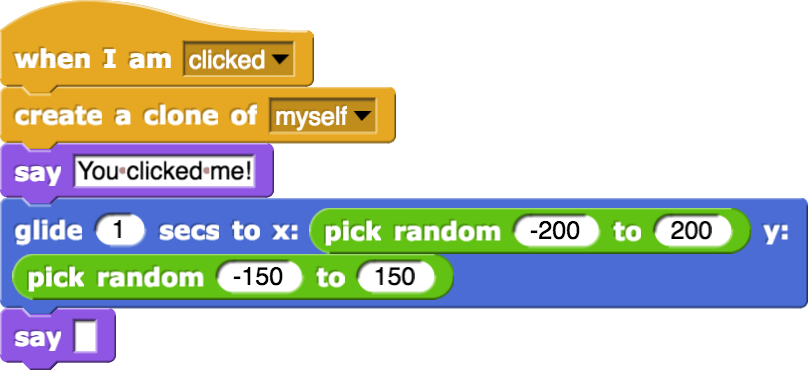
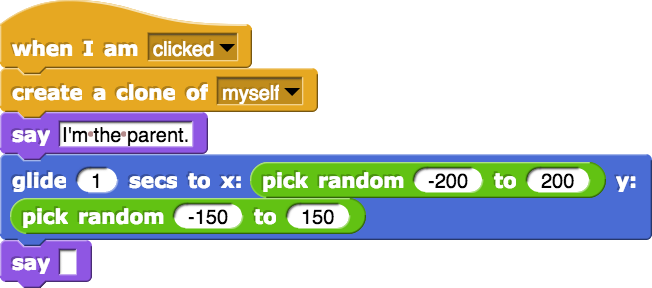
U2 TTT revisions images, xml, todo boxes etc.

diff --git a/cur/programming/2-complexity/4-abstraction/4-building-tic-tac-toe.html b/cur/programming/2-complexity/4-abstraction/4-building-tic-tac-toe.html
@@ -37,16 +37,15 @@
             <img class="indent" src="/bjc-r/img/2-complexity/TTT1_img/Three States of TTT.png" width="550"  alt="Three states of Tic Tac Toe: in progress, win, tie" title="Three states of Tic Tac Toe: in progress, win, tie"/>
         </div>
         <div class="todo">The prior version of this paragraph read like it was explaining why we are doing it this way rather than the old way. The students won't have seen the old way, so that is unnecessary. If we want to compare versions (which I think might be too complex for here) we should actually show both versions and then compare--not just talk about something we have seen and they have not. --MF, 5/21/18</div>
-		<p>One approach to building this game is to use <em>multiple sprites</em>; each square is separate sprite. Each sprite knows where it is on the board, and the sprites never move. The player clicks one of the nine squares, and that sprite changes its costume to display the move.</p>
+		<p>One approach to building this game is to use <em>multiple sprites</em>; each square of the board is a separate sprite. Each sprite knows where it is on the board, and, once positioned, the sprites never move. The player clicks one of the nine squares, and that sprite changes its costume to display the move.</p>
         
         <div class="forYouToDo" id="first">
             <ol>
-            	<div class="todo"><strong>SELIM</strong>, Do we still need this commented-out HTML? --MF, 5/22/18</div>
-          <!--      <li>Play with <a href="/bjc-r/cur/programming/2-complexity/new/6b-newTTT-phase1-interactive.html" target="_blank">this example</a> to get a feel for the Phase 1 version of Tic Tac Toe. </li>   -->
+            	
                 <li><a class="run" href="/bjc-r/prog/2-complexity/U2L4-Tic-Tac-Toe.xml" target="_blank"><img class="inline" src="/bjc-r/img/icons/load-save.png" alt="Click here to load this file. Then save it to your Snap! account." title="Click here to load this file. Then save it to your Snap! account." /></a></li>
                 <li>
                 	The first sprite has already been set up for you. It has three costumes: Empty, X, and O. Click <img class="inline" src="/bjc-r/img/blocks/next-costume.png" alt="next costume" title="next costume" /> a few times to see all of them.<br />
-                    <img class="indent" src="/bjc-r/img/2-complexity/TTT1_img/Costumes.png" height="100" alt="Costumes of a square: Empty, X and O" title="Costumes of a square: Empty, X and O" />
+                    <img class="indent noshadow" src="/bjc-r/img/2-complexity/TTT1_img/Costumes.png" height="100" alt="Costumes of a square: Empty, X and O" title="Costumes of a square: Empty, X and O" />
 				</li>
             </ol>
         </div>
@@ -82,9 +81,7 @@
                 	Then click the sprite on the stage, and compare what happens with what you expected.
                     <div class="narrower">				
                     	<ul>
-                        	<div class="todo">
-                                <p><strong>Selim</strong>, please change "You clicked me!" to "I'm the parent." Brian agrees. The XML and the image need to be updated. --MF, 5/21/18</p>
-                            </div>
+                        	
 							<li>Notice that the parent sprite (not the clone) moves to the new random position after cloning itself. Look back at the code; why does this make sense?</li>
                     		<li>Note that <em>both</em> the clones and the parent <em>are sprites</em>. Both are clickable (try it) and draggable (try that too). This is different from the effects of the <code>stamp</code> Pen block, which just leaves a picture of the sprite on the stage.</li>
                             <li>The <code>create a clone</code> block takes an input because it can copy <em>any</em> sprite. In this project, there's only one sprite at the beginning, so your choices are either <var>myself</var> or <var>Square</var> (the sprite's name), which in this case, means the same thing.</li>
@@ -110,9 +107,9 @@
                         <li>Delete the <code>when I am clicked</code> demonstration script from exercise 3.</li>
                         <li>
                             Connect the additional <code>when</code> <span style="color:green">⚑</span> <code>clicked</code> block toward the bottom of the scripting area to the script just below it.<br />
-                            <img class="indent" src="/bjc-r/img/2-complexity/make-board-script.png" alt="when green flag clicked, wait (.1) secs [comment: Wait for old clones to be deleted.], makeBoard, set (X's turn?) to (true) [Comment: X plays first.]" title="when green flag clicked, wait (.1) secs [comment: Wait for old clones to be deleted.], makeBoard, set (X's turn?) to (true) [Comment: X plays first.]" />
+                            <img class="indent" src="/bjc-r/img/2-complexity/TTT1_img/make-board-script.png" height="150" alt="when green flag clicked, wait (.1) secs [comment: Wait for old clones to be deleted.], makeBoard, set (X's turn?) to (true) [Comment: X plays first.]" title="when green flag clicked, wait (.1) secs [comment: Wait for old clones to be deleted.], makeBoard, set (X's turn?) to (true) [Comment: X plays first.]" />
                         </li> 
-                    	<div class="todo"><strong>Selim</strong>: Please make <code>makeBoard</code> yellow and redo the image just above. --MF, 5/23/18</div>
+                    	
 						<li>
                             Read that script and notice...             
                             <div class="narrower">
